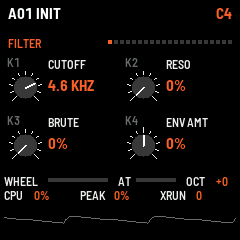
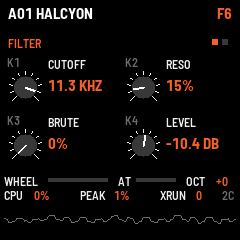
0.15.0: own names for A01..A23, identity FM-1_49, fmhub.json for The Firmware Hub
The hub lists FM-1_42 as MODELAR's: MB-1 answers FM-1_49XXYYZZ now (0.15.0: FM-1_49001500).
fmhub.json is the hub card's text; docs/img/card.png its picture (A01 playing).

Claude-Session: https://claude.ai/code/session_015VhpbL4VK8RUpw8F1mPpMk

diff --git a/app/factory_bank.h b/app/factory_bank.h
@@ -5,29 +5,29 @@ static const struct {
     char name[9];
     uint8_t v[76];
 } FACTORY[] = {
-    {"ABIDINGA", {115, 19, 0, 58, 0, 28, 0, 0, 0, 127, 0, 41, 6, 127, 5, 39, 0, 37, 0, 31, 24, 50, 0, 43, 0, 4, 64, 67, 81, 68, 92, 1, 0, 0, 1, 13, 0, 1, 41, 65, 0, 0, 64, 64, 0, 1, 1, 1, 3, 2, 2, 0, 68, 73, 102, 58, 1, 0, 64, 64, 64, 0, 0, 0, 0, 64, 127, 0, 23, 127, 127, 0, 51, 0, 64, 64}},
-    {"ABYSSALH", {0, 0, 37, 85, 1, 0, 0, 127, 0, 127, 106, 127, 0, 0, 127, 76, 60, 72, 0, 66, 12, 65, 127, 49, 63, 0, 64, 64, 64, 64, 88, 2, 0, 0, 2, 4, 0, 1, 64, 73, 23, 9, 64, 81, 1, 1, 0, 0, 0, 0, 2, 0, 77, 51, 95, 0, 0, 0, 78, 89, 75, 61, 11, 0, 2, 125, 127, 127, 23, 127, 127, 0, 52, 76, 0, 48}},
-    {"ASTRALLE", {46, 0, 49, 84, 0, 0, 112, 59, 0, 0, 127, 60, 17, 79, 37, 10, 85, 88, 91, 59, 68, 68, 101, 66, 49, 4, 64, 78, 64, 64, 49, 1, 37, 0, 2, 89, 1, 1, 36, 63, 11, 31, 74, 64, 1, 11, 0, 0, 0, 0, 2, 0, 77, 51, 95, 0, 0, 0, 67, 115, 39, 79, 11, 0, 0, 64, 127, 0, 23, 127, 127, 0, 78, 92, 33, 43}},
-    {"ASTRALRA", {30, 0, 53, 85, 0, 52, 116, 69, 82, 0, 117, 24, 52, 0, 0, 25, 0, 73, 0, 95, 0, 57, 27, 86, 127, 5, 68, 64, 64, 64, 63, 1, 0, 0, 1, 7, 0, 1, 64, 56, 0, 40, 64, 83, 1, 1, 0, 0, 0, 0, 2, 0, 77, 51, 95, 0, 0, 0, 100, 101, 98, 45, 104, 0, 0, 64, 127, 0, 0, 127, 127, 45, 51, 0, 64, 64}},
-    {"BLURRYFE", {22, 49, 52, 91, 0, 24, 127, 53, 127, 0, 17, 26, 0, 59, 0, 127, 0, 77, 0, 84, 21, 65, 127, 44, 44, 0, 65, 64, 64, 64, 84, 1, 0, 25, 1, 27, 0, 0, 11, 53, 25, 14, 64, 64, 1, 1, 0, 0, 0, 0, 2, 0, 18, 37, 81, 18, 0, 0, 32, 51, 123, 49, 25, 0, 0, 64, 127, 0, 23, 127, 127, 0, 51, 0, 64, 64}},
-    {"BRUTESAW", {11, 0, 55, 127, 0, 0, 80, 33, 95, 0, 0, 0, 0, 0, 0, 0, 14, 34, 16, 49, 0, 65, 127, 56, 63, 0, 63, 64, 64, 64, 74, 1, 0, 47, 2, 127, 0, 0, 64, 58, 9, 64, 64, 64, 1, 1, 0, 0, 0, 0, 2, 0, 50, 71, 81, 27, 1, 0, 63, 89, 75, 40, 127, 1, 0, 64, 127, 0, 9, 127, 127, 12, 51, 0, 64, 64}},
-    {"BRUTESTB", {0, 111, 0, 81, 1, 63, 68, 0, 0, 63, 102, 73, 0, 0, 127, 8, 21, 21, 0, 0, 1, 65, 127, 14, 44, 2, 65, 34, 64, 62, 73, 1, 27, 118, 0, 42, 0, 0, 42, 71, 20, 1, 12, 77, 1, 1, 1, 0, 0, 0, 2, 0, 77, 51, 95, 0, 0, 0, 64, 64, 64, 0, 0, 0, 0, 105, 127, 44, 23, 127, 127, 0, 82, 62, 17, 16}},
-    {"C256", {92, 21, 24, 2, 1, 0, 0, 0, 0, 0, 112, 0, 0, 52, 53, 116, 0, 106, 0, 98, 56, 65, 127, 83, 106, 3, 93, 64, 94, 64, 116, 0, 0, 0, 1, 19, 0, 0, 37, 94, 0, 9, 64, 77, 1, 1, 1, 0, 0, 0, 2, 0, 77, 51, 95, 0, 0, 0, 98, 89, 75, 64, 11, 0, 0, 64, 127, 0, 23, 127, 127, 0, 51, 0, 64, 64}},
-    {"CONCILIA", {127, 0, 0, 64, 0, 0, 0, 56, 0, 0, 127, 34, 0, 127, 0, 44, 0, 65, 0, 0, 26, 67, 112, 35, 30, 0, 64, 64, 74, 66, 76, 1, 46, 0, 1, 9, 0, 1, 44, 94, 8, 0, 64, 64, 0, 1, 0, 0, 0, 0, 2, 0, 77, 51, 95, 0, 0, 0, 63, 64, 76, 39, 45, 0, 0, 64, 127, 0, 23, 127, 127, 0, 51, 0, 64, 64}},
-    {"DARKATMO", {19, 93, 35, 70, 0, 25, 0, 0, 88, 0, 98, 0, 0, 64, 0, 30, 95, 107, 51, 75, 91, 106, 62, 87, 11, 0, 64, 74, 45, 77, 0, 1, 0, 20, 2, 61, 0, 0, 8, 55, 3, 38, 64, 69, 1, 2, 1, 0, 0, 0, 2, 0, 50, 60, 81, 51, 1, 0, 68, 90, 76, 76, 45, 0, 3, 50, 127, 13, 23, 127, 127, 0, 51, 0, 64, 64}},
-    {"DARKUNIS", {0, 32, 80, 75, 0, 73, 0, 0, 95, 69, 62, 75, 1, 43, 71, 104, 0, 66, 127, 57, 0, 0, 127, 60, 37, 0, 64, 77, 88, 76, 98, 1, 0, 127, 2, 127, 0, 0, 7, 54, 0, 53, 126, 5, 0, 0, 1, 0, 0, 0, 2, 0, 77, 51, 95, 0, 0, 0, 63, 62, 75, 48, 11, 0, 0, 34, 127, 37, 23, 127, 127, 0, 51, 0, 64, 64}},
-    {"DERRIERE", {22, 19, 17, 127, 0, 0, 0, 0, 95, 58, 57, 72, 0, 75, 68, 0, 107, 92, 108, 98, 0, 102, 127, 105, 68, 4, 64, 67, 81, 64, 52, 1, 0, 70, 1, 11, 1, 1, 64, 66, 0, 58, 64, 64, 1, 1, 0, 0, 0, 0, 2, 0, 77, 37, 81, 33, 1, 0, 27, 102, 76, 72, 45, 0, 0, 64, 127, 0, 26, 95, 127, 87, 51, 0, 64, 64}},
-    {"DIRTYHAR", {63, 46, 114, 81, 3, 101, 107, 87, 20, 79, 46, 88, 52, 125, 114, 102, 14, 35, 2, 15, 0, 39, 116, 0, 32, 1, 63, 127, 50, 55, 83, 2, 42, 8, 1, 18, 0, 0, 31, 106, 18, 43, 64, 99, 0, 1, 1, 0, 0, 0, 2, 0, 59, 19, 106, 9, 1, 1, 26, 20, 76, 21, 124, 1, 0, 64, 127, 0, 23, 127, 45, 64, 57, 93, 65, 16}},
-    {"EVOLVING", {69, 48, 6, 25, 1, 33, 0, 64, 7, 0, 109, 0, 0, 0, 1, 115, 0, 86, 42, 127, 69, 65, 126, 66, 69, 3, 64, 71, 65, 64, 73, 1, 0, 127, 0, 42, 0, 0, 64, 61, 0, 13, 64, 7, 1, 1, 0, 0, 0, 0, 2, 0, 96, 0, 97, 27, 1, 1, 72, 89, 75, 28, 11, 0, 0, 64, 127, 0, 23, 127, 127, 0, 51, 0, 64, 64}},
-    {"FIFTHATM", {0, 44, 18, 71, 1, 75, 0, 67, 0, 0, 127, 0, 17, 0, 0, 4, 113, 93, 0, 57, 55, 65, 127, 74, 43, 0, 65, 66, 64, 64, 63, 1, 0, 0, 2, 29, 0, 0, 64, 37, 12, 0, 64, 77, 1, 1, 0, 0, 0, 0, 2, 0, 68, 78, 97, 45, 1, 0, 91, 95, 75, 40, 11, 0, 0, 64, 127, 0, 23, 127, 127, 0, 51, 0, 64, 64}},
-    {"GLASSDOO", {24, 101, 25, 127, 0, 64, 0, 0, 0, 0, 127, 0, 1, 0, 0, 0, 0, 77, 0, 0, 0, 88, 0, 101, 94, 5, 64, 88, 64, 64, 73, 1, 0, 0, 1, 15, 0, 0, 13, 52, 0, 0, 64, 64, 1, 1, 0, 0, 3, 1, 1, 0, 68, 51, 97, 29, 1, 0, 63, 89, 75, 56, 11, 0, 0, 64, 127, 0, 23, 127, 127, 0, 51, 0, 64, 64}},
-    {"INCISION", {51, 0, 18, 64, 3, 0, 0, 0, 92, 0, 0, 127, 20, 0, 0, 0, 0, 65, 0, 0, 0, 127, 0, 0, 46, 0, 64, 77, 64, 64, 73, 1, 58, 127, 1, 42, 0, 1, 64, 69, 0, 0, 64, 64, 1, 1, 0, 0, 0, 0, 2, 0, 77, 51, 95, 0, 0, 0, 64, 64, 64, 0, 0, 0, 0, 64, 127, 0, 23, 127, 127, 0, 93, 127, 0, 17}},
-    {"INVASION", {28, 49, 70, 86, 0, 66, 35, 91, 95, 23, 15, 63, 45, 64, 115, 1, 65, 65, 42, 21, 85, 97, 127, 51, 94, 1, 64, 43, 127, 64, 37, 1, 24, 107, 0, 62, 1, 0, 34, 46, 10, 6, 18, 64, 1, 11, 0, 0, 0, 0, 2, 0, 77, 51, 106, 54, 1, 0, 83, 89, 75, 54, 13, 0, 0, 64, 127, 0, 23, 127, 127, 0, 51, 0, 64, 64}},
-    {"KIKIKEYS", {53, 97, 34, 63, 0, 64, 0, 0, 0, 0, 82, 0, 0, 0, 57, 0, 0, 14, 0, 0, 0, 83, 0, 85, 56, 2, 64, 64, 56, 64, 41, 1, 0, 0, 1, 42, 0, 0, 64, 62, 0, 0, 64, 127, 1, 1, 1, 0, 0, 0, 2, 0, 77, 51, 95, 0, 0, 0, 107, 105, 55, 48, 11, 0, 0, 64, 127, 0, 23, 127, 127, 0, 87, 62, 48, 16}},
-    {"PH 0", {13, 84, 33, 73, 0, 0, 50, 0, 126, 0, 0, 0, 0, 0, 34, 0, 8, 69, 0, 20, 6, 89, 26, 22, 63, 0, 64, 64, 64, 64, 73, 1, 25, 65, 1, 42, 0, 0, 64, 52, 0, 42, 64, 64, 0, 1, 0, 0, 0, 0, 2, 0, 77, 51, 95, 0, 0, 0, 64, 64, 64, 0, 0, 0, 2, 71, 127, 127, 23, 127, 127, 0, 86, 127, 62, 17}},
-    {"PLUCKPAD", {22, 19, 74, 86, 0, 41, 105, 45, 73, 91, 37, 82, 0, 0, 70, 87, 2, 76, 19, 87, 2, 80, 73, 91, 114, 2, 64, 93, 59, 91, 88, 1, 0, 0, 0, 10, 0, 0, 0, 54, 9, 38, 97, 61, 1, 1, 1, 0, 1, 1, 1, 0, 32, 94, 105, 19, 1, 1, 100, 86, 39, 49, 79, 0, 0, 64, 127, 0, 23, 127, 127, 0, 51, 0, 64, 64}},
-    {"SONICCRU", {47, 0, 90, 64, 0, 64, 0, 0, 127, 0, 0, 127, 0, 0, 0, 0, 0, 27, 0, 0, 96, 49, 127, 0, 81, 0, 64, 79, 64, 110, 40, 1, 0, 0, 0, 127, 1, 0, 64, 63, 0, 0, 64, 64, 1, 6, 1, 0, 0, 0, 2, 0, 77, 51, 95, 0, 0, 0, 64, 64, 64, 0, 0, 0, 0, 64, 127, 0, 23, 127, 127, 0, 51, 0, 64, 64}},
-    {"VAISSEAU", {48, 67, 38, 75, 0, 26, 64, 64, 127, 76, 127, 102, 51, 0, 0, 1, 75, 88, 25, 77, 27, 57, 127, 67, 19, 1, 64, 72, 84, 64, 73, 1, 45, 89, 2, 17, 0, 1, 8, 41, 0, 25, 105, 79, 0, 2, 0, 0, 0, 0, 2, 0, 77, 74, 81, 39, 1, 0, 109, 110, 31, 45, 66, 0, 2, 32, 127, 25, 23, 127, 127, 0, 51, 0, 64, 64}},
+    {"HALCYON", {115, 19, 0, 58, 0, 28, 0, 0, 0, 127, 0, 41, 6, 127, 5, 39, 0, 37, 0, 31, 24, 50, 0, 43, 0, 4, 64, 67, 81, 68, 92, 1, 0, 0, 1, 13, 0, 1, 41, 65, 0, 0, 64, 64, 0, 1, 1, 1, 3, 2, 2, 0, 68, 73, 102, 58, 1, 0, 64, 64, 64, 0, 0, 0, 0, 64, 127, 0, 23, 127, 127, 0, 51, 0, 64, 64}},
+    {"TRENCH", {0, 0, 37, 85, 1, 0, 0, 127, 0, 127, 106, 127, 0, 0, 127, 76, 60, 72, 0, 66, 12, 65, 127, 49, 63, 0, 64, 64, 64, 64, 88, 2, 0, 0, 2, 4, 0, 1, 64, 73, 23, 9, 64, 81, 1, 1, 0, 0, 0, 0, 2, 0, 77, 51, 95, 0, 0, 0, 78, 89, 75, 61, 11, 0, 2, 125, 127, 127, 23, 127, 127, 0, 52, 76, 0, 48}},
+    {"NEBULA", {46, 0, 49, 84, 0, 0, 112, 59, 0, 0, 127, 60, 17, 79, 37, 10, 85, 88, 91, 59, 68, 68, 101, 66, 49, 4, 64, 78, 64, 64, 49, 1, 37, 0, 2, 89, 1, 1, 36, 63, 11, 31, 74, 64, 1, 11, 0, 0, 0, 0, 2, 0, 77, 51, 95, 0, 0, 0, 67, 115, 39, 79, 11, 0, 0, 64, 127, 0, 23, 127, 127, 0, 78, 92, 33, 43}},
+    {"SKYDRIFT", {30, 0, 53, 85, 0, 52, 116, 69, 82, 0, 117, 24, 52, 0, 0, 25, 0, 73, 0, 95, 0, 57, 27, 86, 127, 5, 68, 64, 64, 64, 63, 1, 0, 0, 1, 7, 0, 1, 64, 56, 0, 40, 64, 83, 1, 1, 0, 0, 0, 0, 2, 0, 77, 51, 95, 0, 0, 0, 100, 101, 98, 45, 104, 0, 0, 64, 127, 0, 0, 127, 127, 45, 51, 0, 64, 64}},
+    {"SMUDGE", {22, 49, 52, 91, 0, 24, 127, 53, 127, 0, 17, 26, 0, 59, 0, 127, 0, 77, 0, 84, 21, 65, 127, 44, 44, 0, 65, 64, 64, 64, 84, 1, 0, 25, 1, 27, 0, 0, 11, 53, 25, 14, 64, 64, 1, 1, 0, 0, 0, 0, 2, 0, 18, 37, 81, 18, 0, 0, 32, 51, 123, 49, 25, 0, 0, 64, 127, 0, 23, 127, 127, 0, 51, 0, 64, 64}},
+    {"RAWSAW", {11, 0, 55, 127, 0, 0, 80, 33, 95, 0, 0, 0, 0, 0, 0, 0, 14, 34, 16, 49, 0, 65, 127, 56, 63, 0, 63, 64, 64, 64, 74, 1, 0, 47, 2, 127, 0, 0, 64, 58, 9, 64, 64, 64, 1, 1, 0, 0, 0, 0, 2, 0, 50, 71, 81, 27, 1, 0, 63, 89, 75, 40, 127, 1, 0, 64, 127, 0, 9, 127, 127, 12, 51, 0, 64, 64}},
+    {"STABBER", {0, 111, 0, 81, 1, 63, 68, 0, 0, 63, 102, 73, 0, 0, 127, 8, 21, 21, 0, 0, 1, 65, 127, 14, 44, 2, 65, 34, 64, 62, 73, 1, 27, 118, 0, 42, 0, 0, 42, 71, 20, 1, 12, 77, 1, 1, 1, 0, 0, 0, 2, 0, 77, 51, 95, 0, 0, 0, 64, 64, 64, 0, 0, 0, 0, 105, 127, 44, 23, 127, 127, 0, 82, 62, 17, 16}},
+    {"BITBASS", {92, 21, 24, 2, 1, 0, 0, 0, 0, 0, 112, 0, 0, 52, 53, 116, 0, 106, 0, 98, 56, 65, 127, 83, 106, 3, 93, 64, 94, 64, 116, 0, 0, 0, 1, 19, 0, 0, 37, 94, 0, 9, 64, 77, 1, 1, 1, 0, 0, 0, 2, 0, 77, 51, 95, 0, 0, 0, 98, 89, 75, 64, 11, 0, 0, 64, 127, 0, 23, 127, 127, 0, 51, 0, 64, 64}},
+    {"CHORALE", {127, 0, 0, 64, 0, 0, 0, 56, 0, 0, 127, 34, 0, 127, 0, 44, 0, 65, 0, 0, 26, 67, 112, 35, 30, 0, 64, 64, 74, 66, 76, 1, 46, 0, 1, 9, 0, 1, 44, 94, 8, 0, 64, 64, 0, 1, 0, 0, 0, 0, 2, 0, 77, 51, 95, 0, 0, 0, 63, 64, 76, 39, 45, 0, 0, 64, 127, 0, 23, 127, 127, 0, 51, 0, 64, 64}},
+    {"NIGHTFOG", {19, 93, 35, 70, 0, 25, 0, 0, 88, 0, 98, 0, 0, 64, 0, 30, 95, 107, 51, 75, 91, 106, 62, 87, 11, 0, 64, 74, 45, 77, 0, 1, 0, 20, 2, 61, 0, 0, 8, 55, 3, 38, 64, 69, 1, 2, 1, 0, 0, 0, 2, 0, 50, 60, 81, 51, 1, 0, 68, 90, 76, 76, 45, 0, 3, 50, 127, 13, 23, 127, 127, 0, 51, 0, 64, 64}},
+    {"UNISUB", {0, 32, 80, 75, 0, 73, 0, 0, 95, 69, 62, 75, 1, 43, 71, 104, 0, 66, 127, 57, 0, 0, 127, 60, 37, 0, 64, 77, 88, 76, 98, 1, 0, 127, 2, 127, 0, 0, 7, 54, 0, 53, 126, 5, 0, 0, 1, 0, 0, 0, 2, 0, 77, 51, 95, 0, 0, 0, 63, 62, 75, 48, 11, 0, 0, 34, 127, 37, 23, 127, 127, 0, 51, 0, 64, 64}},
+    {"LOWRIDER", {22, 19, 17, 127, 0, 0, 0, 0, 95, 58, 57, 72, 0, 75, 68, 0, 107, 92, 108, 98, 0, 102, 127, 105, 68, 4, 64, 67, 81, 64, 52, 1, 0, 70, 1, 11, 1, 1, 64, 66, 0, 58, 64, 64, 1, 1, 0, 0, 0, 0, 2, 0, 77, 37, 81, 33, 1, 0, 27, 102, 76, 72, 45, 0, 0, 64, 127, 0, 26, 95, 127, 87, 51, 0, 64, 64}},
+    {"GRITHARM", {63, 46, 114, 81, 3, 101, 107, 87, 20, 79, 46, 88, 52, 125, 114, 102, 14, 35, 2, 15, 0, 39, 116, 0, 32, 1, 63, 127, 50, 55, 83, 2, 42, 8, 1, 18, 0, 0, 31, 106, 18, 43, 64, 99, 0, 1, 1, 0, 0, 0, 2, 0, 59, 19, 106, 9, 1, 1, 26, 20, 76, 21, 124, 1, 0, 64, 127, 0, 23, 127, 45, 64, 57, 93, 65, 16}},
+    {"MORPHER", {69, 48, 6, 25, 1, 33, 0, 64, 7, 0, 109, 0, 0, 0, 1, 115, 0, 86, 42, 127, 69, 65, 126, 66, 69, 3, 64, 71, 65, 64, 73, 1, 0, 127, 0, 42, 0, 0, 64, 61, 0, 13, 64, 7, 1, 1, 0, 0, 0, 0, 2, 0, 96, 0, 97, 27, 1, 1, 72, 89, 75, 28, 11, 0, 0, 64, 127, 0, 23, 127, 127, 0, 51, 0, 64, 64}},
+    {"QUINTAIR", {0, 44, 18, 71, 1, 75, 0, 67, 0, 0, 127, 0, 17, 0, 0, 4, 113, 93, 0, 57, 55, 65, 127, 74, 43, 0, 65, 66, 64, 64, 63, 1, 0, 0, 2, 29, 0, 0, 64, 37, 12, 0, 64, 77, 1, 1, 0, 0, 0, 0, 2, 0, 68, 78, 97, 45, 1, 0, 91, 95, 75, 40, 11, 0, 0, 64, 127, 0, 23, 127, 127, 0, 51, 0, 64, 64}},
+    {"GLASSY", {24, 101, 25, 127, 0, 64, 0, 0, 0, 0, 127, 0, 1, 0, 0, 0, 0, 77, 0, 0, 0, 88, 0, 101, 94, 5, 64, 88, 64, 64, 73, 1, 0, 0, 1, 15, 0, 0, 13, 52, 0, 0, 64, 64, 1, 1, 0, 0, 3, 1, 1, 0, 68, 51, 97, 29, 1, 0, 63, 89, 75, 56, 11, 0, 0, 64, 127, 0, 23, 127, 127, 0, 51, 0, 64, 64}},
+    {"SCALPEL", {51, 0, 18, 64, 3, 0, 0, 0, 92, 0, 0, 127, 20, 0, 0, 0, 0, 65, 0, 0, 0, 127, 0, 0, 46, 0, 64, 77, 64, 64, 73, 1, 58, 127, 1, 42, 0, 1, 64, 69, 0, 0, 64, 64, 1, 1, 0, 0, 0, 0, 2, 0, 77, 51, 95, 0, 0, 0, 64, 64, 64, 0, 0, 0, 0, 64, 127, 0, 23, 127, 127, 0, 93, 127, 0, 17}},
+    {"RAIDER", {28, 49, 70, 86, 0, 66, 35, 91, 95, 23, 15, 63, 45, 64, 115, 1, 65, 65, 42, 21, 85, 97, 127, 51, 94, 1, 64, 43, 127, 64, 37, 1, 24, 107, 0, 62, 1, 0, 34, 46, 10, 6, 18, 64, 1, 11, 0, 0, 0, 0, 2, 0, 77, 51, 106, 54, 1, 0, 83, 89, 75, 54, 13, 0, 0, 64, 127, 0, 23, 127, 127, 0, 51, 0, 64, 64}},
+    {"TINKEYS", {53, 97, 34, 63, 0, 64, 0, 0, 0, 0, 82, 0, 0, 0, 57, 0, 0, 14, 0, 0, 0, 83, 0, 85, 56, 2, 64, 64, 56, 64, 41, 1, 0, 0, 1, 42, 0, 0, 64, 62, 0, 0, 64, 127, 1, 1, 1, 0, 0, 0, 2, 0, 77, 51, 95, 0, 0, 0, 107, 105, 55, 48, 11, 0, 0, 64, 127, 0, 23, 127, 127, 0, 87, 62, 48, 16}},
+    {"ORIGIN", {13, 84, 33, 73, 0, 0, 50, 0, 126, 0, 0, 0, 0, 0, 34, 0, 8, 69, 0, 20, 6, 89, 26, 22, 63, 0, 64, 64, 64, 64, 73, 1, 25, 65, 1, 42, 0, 0, 64, 52, 0, 42, 64, 64, 0, 1, 0, 0, 0, 0, 2, 0, 77, 51, 95, 0, 0, 0, 64, 64, 64, 0, 0, 0, 2, 71, 127, 127, 23, 127, 127, 0, 86, 127, 62, 17}},
+    {"PLUCKY", {22, 19, 74, 86, 0, 41, 105, 45, 73, 91, 37, 82, 0, 0, 70, 87, 2, 76, 19, 87, 2, 80, 73, 91, 114, 2, 64, 93, 59, 91, 88, 1, 0, 0, 0, 10, 0, 0, 0, 54, 9, 38, 97, 61, 1, 1, 1, 0, 1, 1, 1, 0, 32, 94, 105, 19, 1, 1, 100, 86, 39, 49, 79, 0, 0, 64, 127, 0, 23, 127, 127, 0, 51, 0, 64, 64}},
+    {"SHOCKWAV", {47, 0, 90, 64, 0, 64, 0, 0, 127, 0, 0, 127, 0, 0, 0, 0, 0, 27, 0, 0, 96, 49, 127, 0, 81, 0, 64, 79, 64, 110, 40, 1, 0, 0, 0, 127, 1, 0, 64, 63, 0, 0, 64, 64, 1, 6, 1, 0, 0, 0, 2, 0, 77, 51, 95, 0, 0, 0, 64, 64, 64, 0, 0, 0, 0, 64, 127, 0, 23, 127, 127, 0, 51, 0, 64, 64}},
+    {"STARSHIP", {48, 67, 38, 75, 0, 26, 64, 64, 127, 76, 127, 102, 51, 0, 0, 1, 75, 88, 25, 77, 27, 57, 127, 67, 19, 1, 64, 72, 84, 64, 73, 1, 45, 89, 2, 17, 0, 1, 8, 41, 0, 25, 105, 79, 0, 2, 0, 0, 0, 0, 2, 0, 77, 74, 81, 39, 1, 0, 109, 110, 31, 45, 66, 0, 2, 32, 127, 25, 23, 127, 127, 0, 51, 0, 64, 64}},
     {"SKWEESH", {99, 61, 82, 50, 0, 7, 45, 26, 125, 0, 0, 122, 0, 0, 101, 0, 0, 25, 30, 29, 0, 10, 74, 45, 88, 5, 64, 64, 64, 64, 72, 0, 0, 29, 2, 59, 1, 0, 22, 65, 0, 27, 64, 64, 0, 1, 0, 0, 0, 3, 0, 4, 45, 32, 111, 57, 0, 1, 101, 41, 92, 0, 30, 1, 1, 94, 120, 0, 11, 49, 97, 0, 66, 0, 14, 34}},
     {"DARKEY", {81, 81, 0, 88, 0, 55, 0, 41, 0, 0, 108, 82, 0, 96, 73, 0, 0, 30, 73, 17, 0, 10, 126, 20, 72, 0, 64, 64, 34, 64, 59, 1, 15, 19, 1, 64, 0, 1, 55, 60, 20, 0, 40, 64, 0, 1, 1, 0, 2, 3, 0, 5, 74, 74, 103, 0, 1, 1, 91, 51, 52, 30, 47, 1, 3, 25, 62, 77, 73, 113, 114, 0, 71, 0, 60, 16}},
     {"CLAV8B", {104, 21, 1, 105, 3, 14, 0, 0, 62, 40, 127, 77, 0, 0, 108, 26, 48, 84, 37, 8, 0, 26, 106, 42, 26, 5, 64, 28, 64, 64, 49, 0, 0, 40, 2, 62, 1, 1, 7, 60, 56, 51, 64, 64, 0, 1, 1, 0, 2, 2, 2, 1, 29, 70, 58, 0, 1, 0, 70, 69, 42, 25, 0, 1, 1, 73, 107, 0, 17, 32, 126, 0, 45, 0, 68, 47}},
